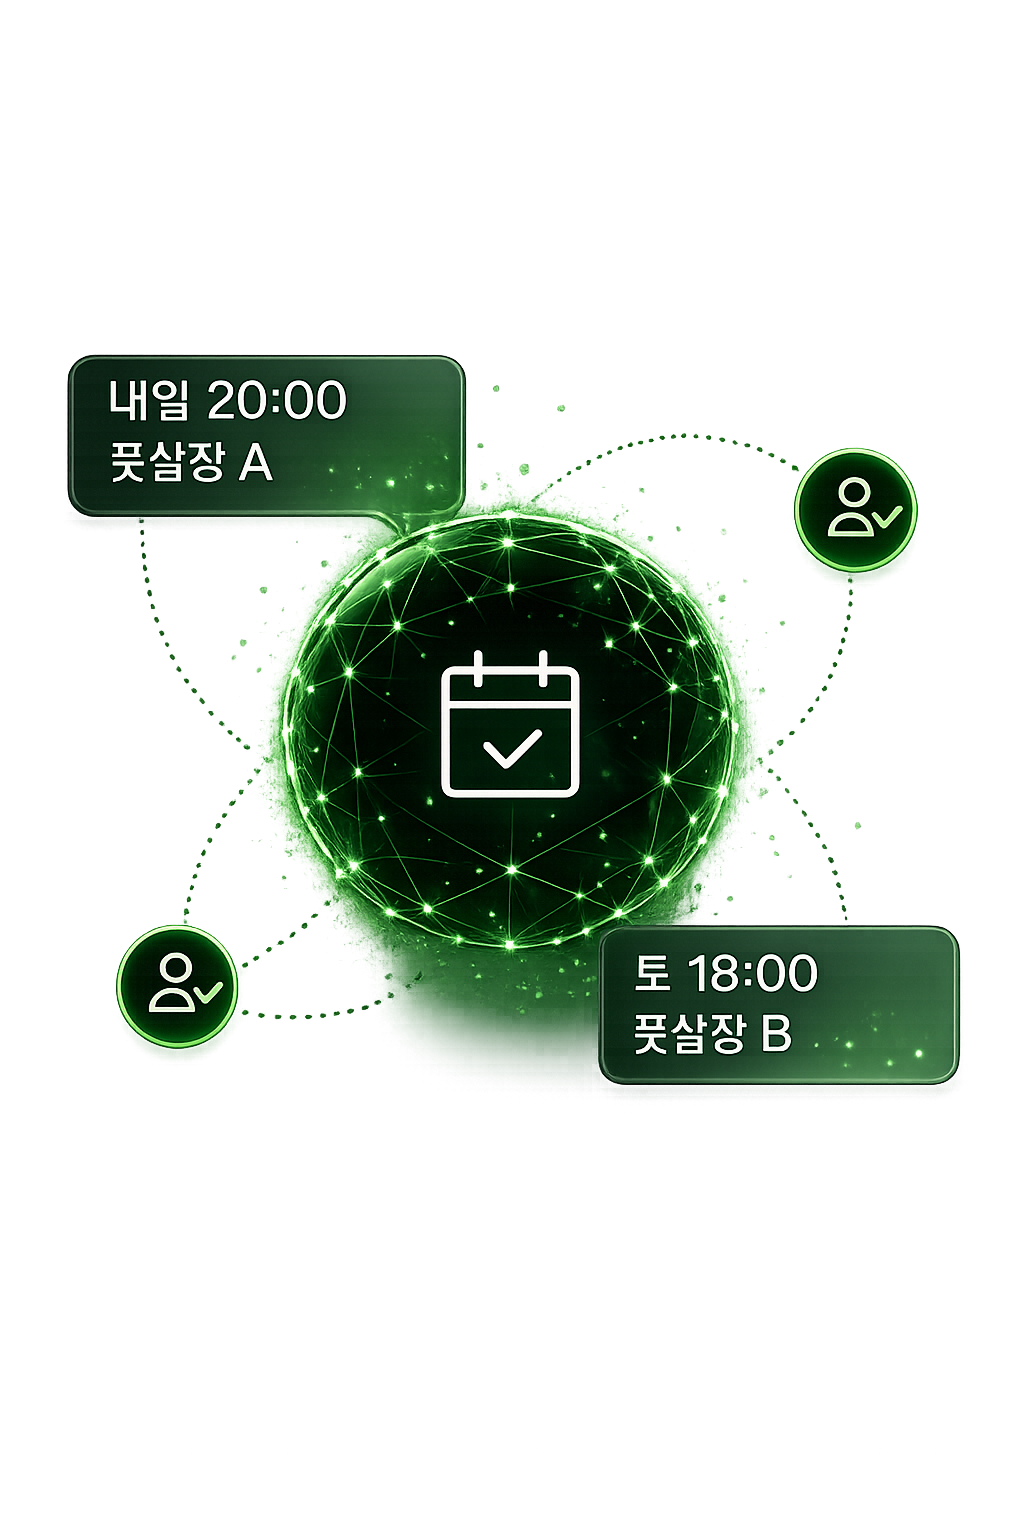
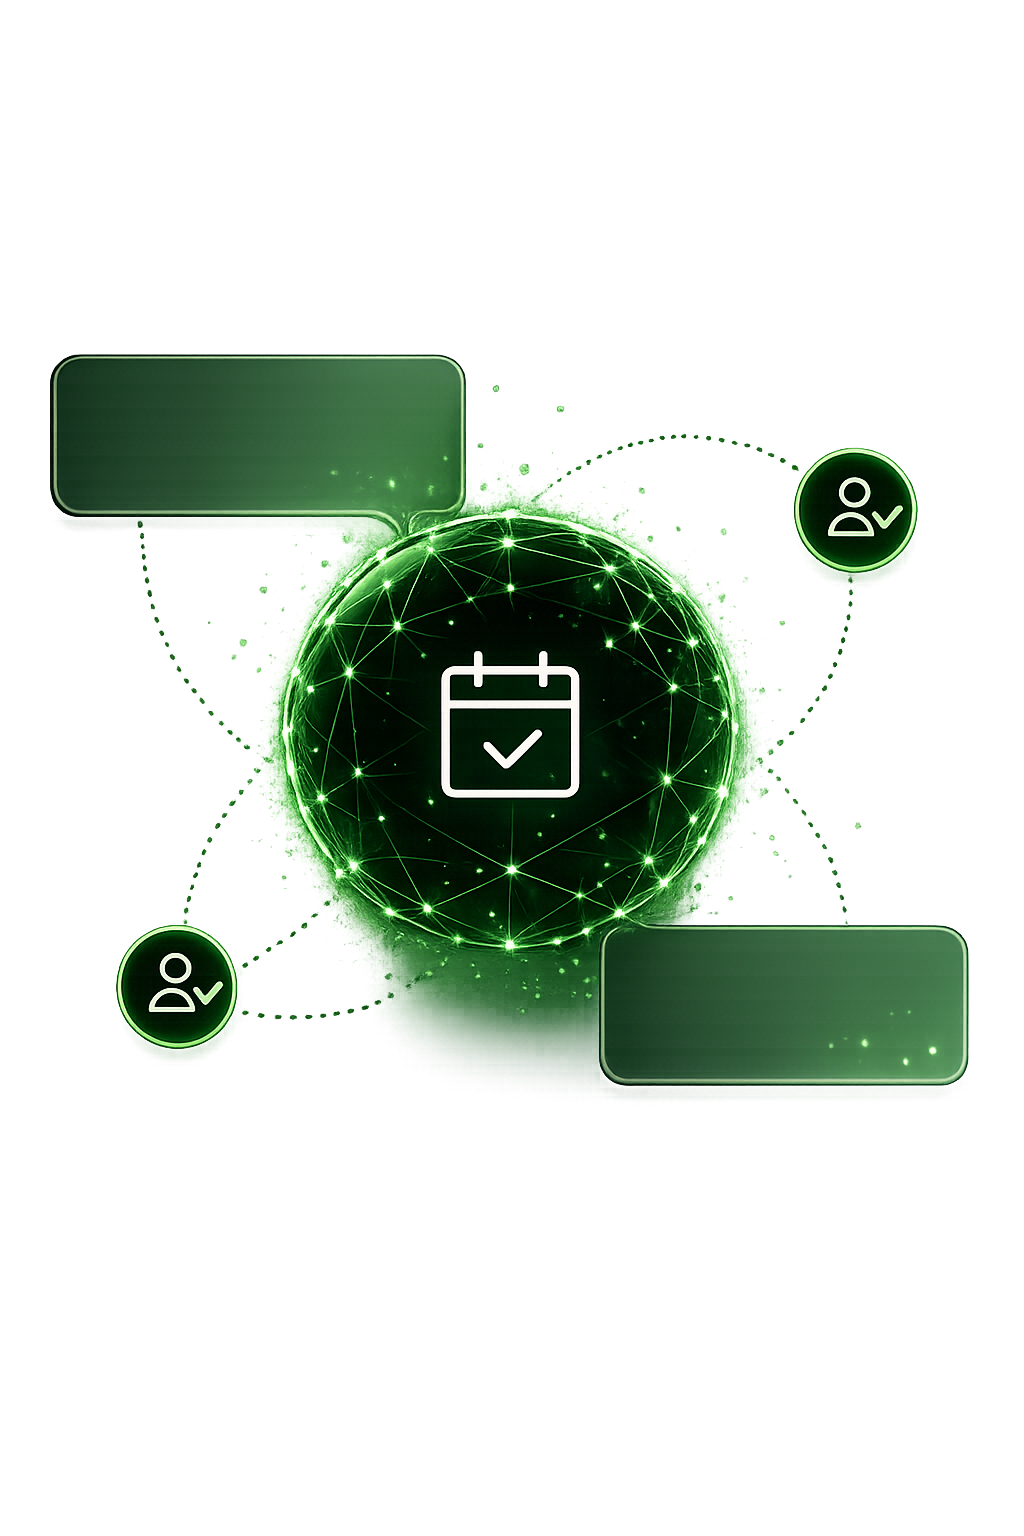
feat: 3페이지 말풍선 텍스트를 이미지 대신 코드로 렌더링
onbording-3.png를 빈 말풍선 버전(글리치 텍스트 제거된)으로 교체하고,
그 위에 절대위치 View+Text로 "내일 20:00 / 풋살장 A", "토 18:00 / 풋살장 B"를
직접 렌더링. 말풍선 위치는 이미지 픽셀 대비 퍼센트 좌표로 추정 배치
(정확한 위치는 실제로 보고 미세조정 필요할 수 있음).

diff --git a/src/features/onboarding/screens/OnboardingScreen.tsx b/src/features/onboarding/screens/OnboardingScreen.tsx
@@ -139,11 +139,21 @@ export function OnboardingScreen({ onDone }: OnboardingScreenProps) {
               key={i}
               style={[styles.slide, styles.introSlide, { width: SCREEN_WIDTH, marginTop: introSlideMarginTop }]}
             >
-              <Image
-                source={require('../../../../assets/onbording-3.png')}
-                style={{ width: introImageWidth, height: introImageHeight, marginHorizontal: -12 }}
-                resizeMode="contain"
-              />
+              <View style={{ width: introImageWidth, height: introImageHeight, marginHorizontal: -12 }}>
+                <Image
+                  source={require('../../../../assets/onbording-3.png')}
+                  style={{ width: '100%', height: '100%' }}
+                  resizeMode="contain"
+                />
+                <View style={[styles.bubble, { left: '5%', top: '22.5%', width: '40%' }]}>
+                  <Text style={styles.bubbleText}>내일 20:00</Text>
+                  <Text style={styles.bubbleText}>풋살장 A</Text>
+                </View>
+                <View style={[styles.bubble, { left: '57%', top: '60.5%', width: '38%' }]}>
+                  <Text style={styles.bubbleText}>토 18:00</Text>
+                  <Text style={styles.bubbleText}>풋살장 B</Text>
+                </View>
+              </View>
               <View style={[styles.featureTextBlock, { marginTop: introTextMarginTop }]}>
                 <Text style={styles.stepNumber}>02</Text>
                 <Text style={[styles.title, styles.centerText, styles.featureTitleSize]}>{slide.title}</Text>
@@ -234,6 +244,16 @@ const styles = StyleSheet.create({
   },
   introImage: {
     marginBottom: 4,
+  },
+  bubble: {
+    position: 'absolute',
+    alignItems: 'center',
+    justifyContent: 'center',
+  },
+  bubbleText: {
+    color: '#FFFFFF',
+    fontSize: 15,
+    fontWeight: '700',
   },
   introTextBlock: {
     alignItems: 'flex-start',
